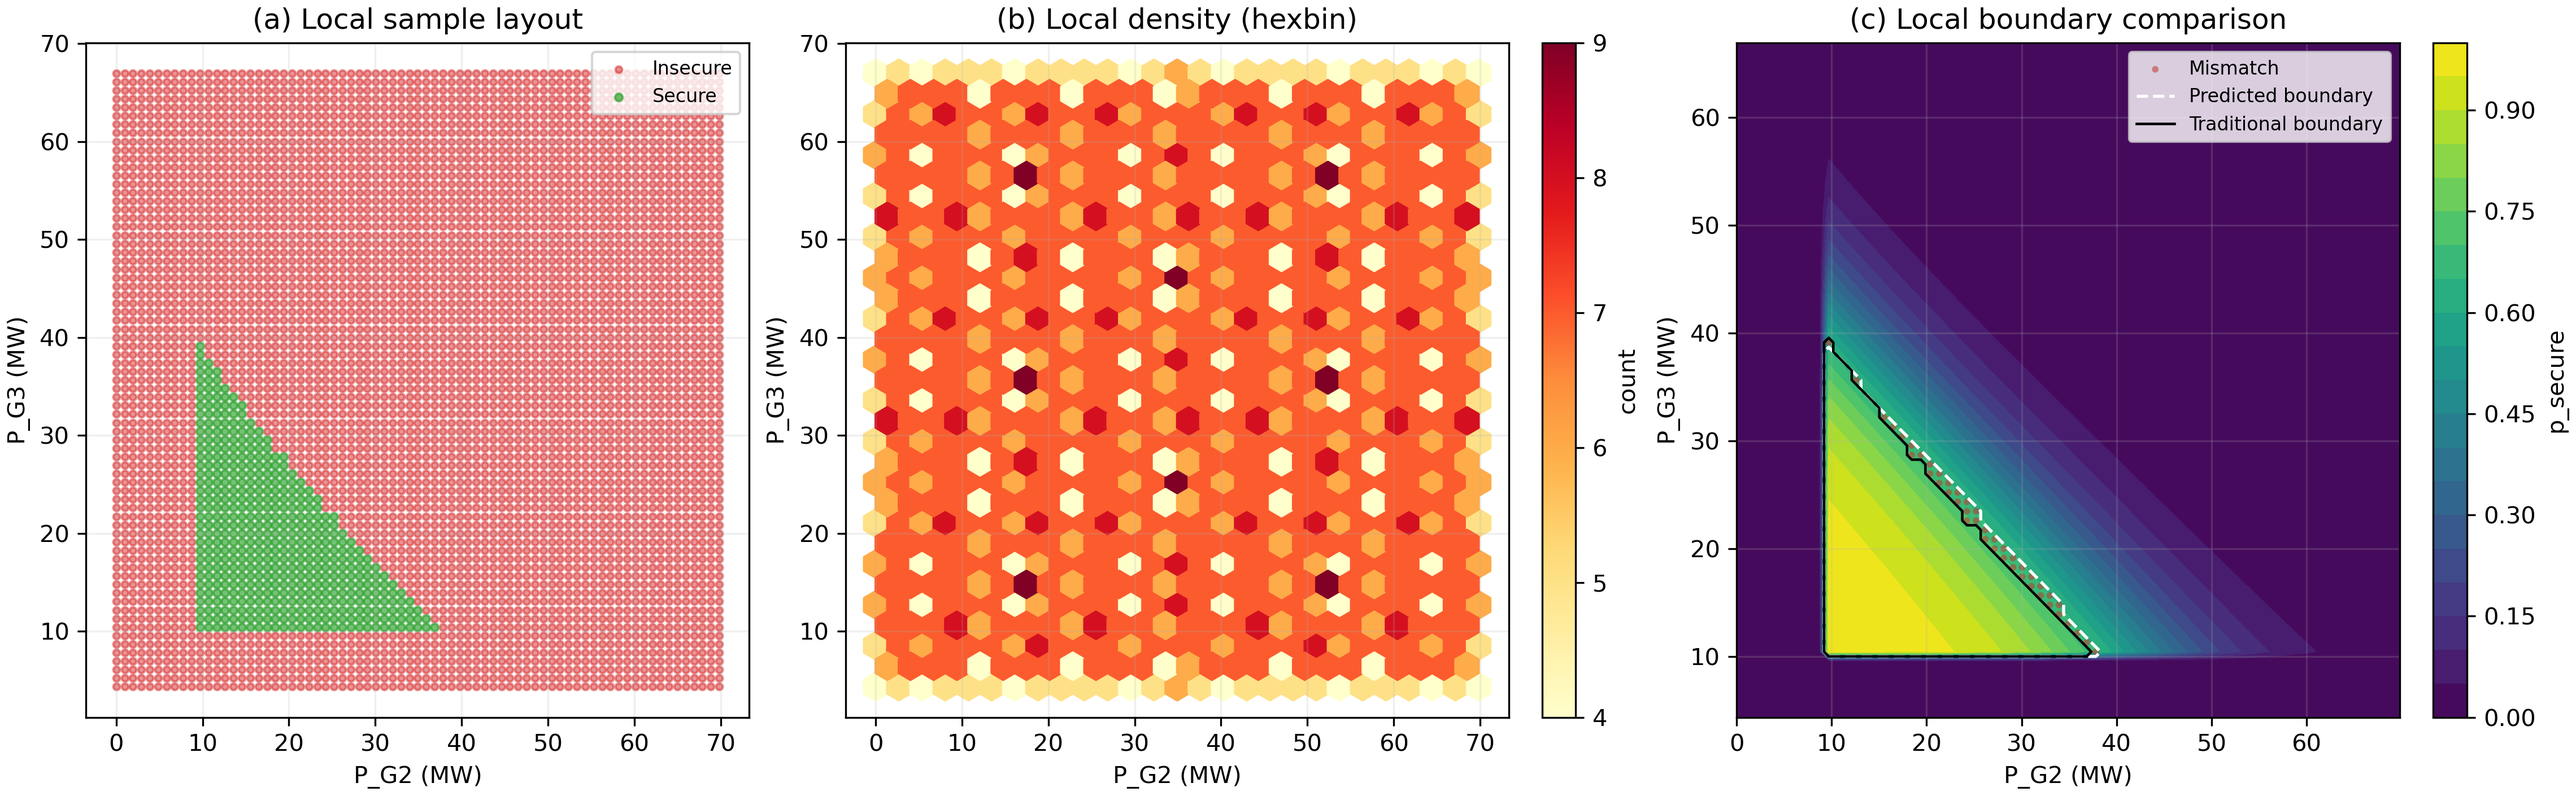
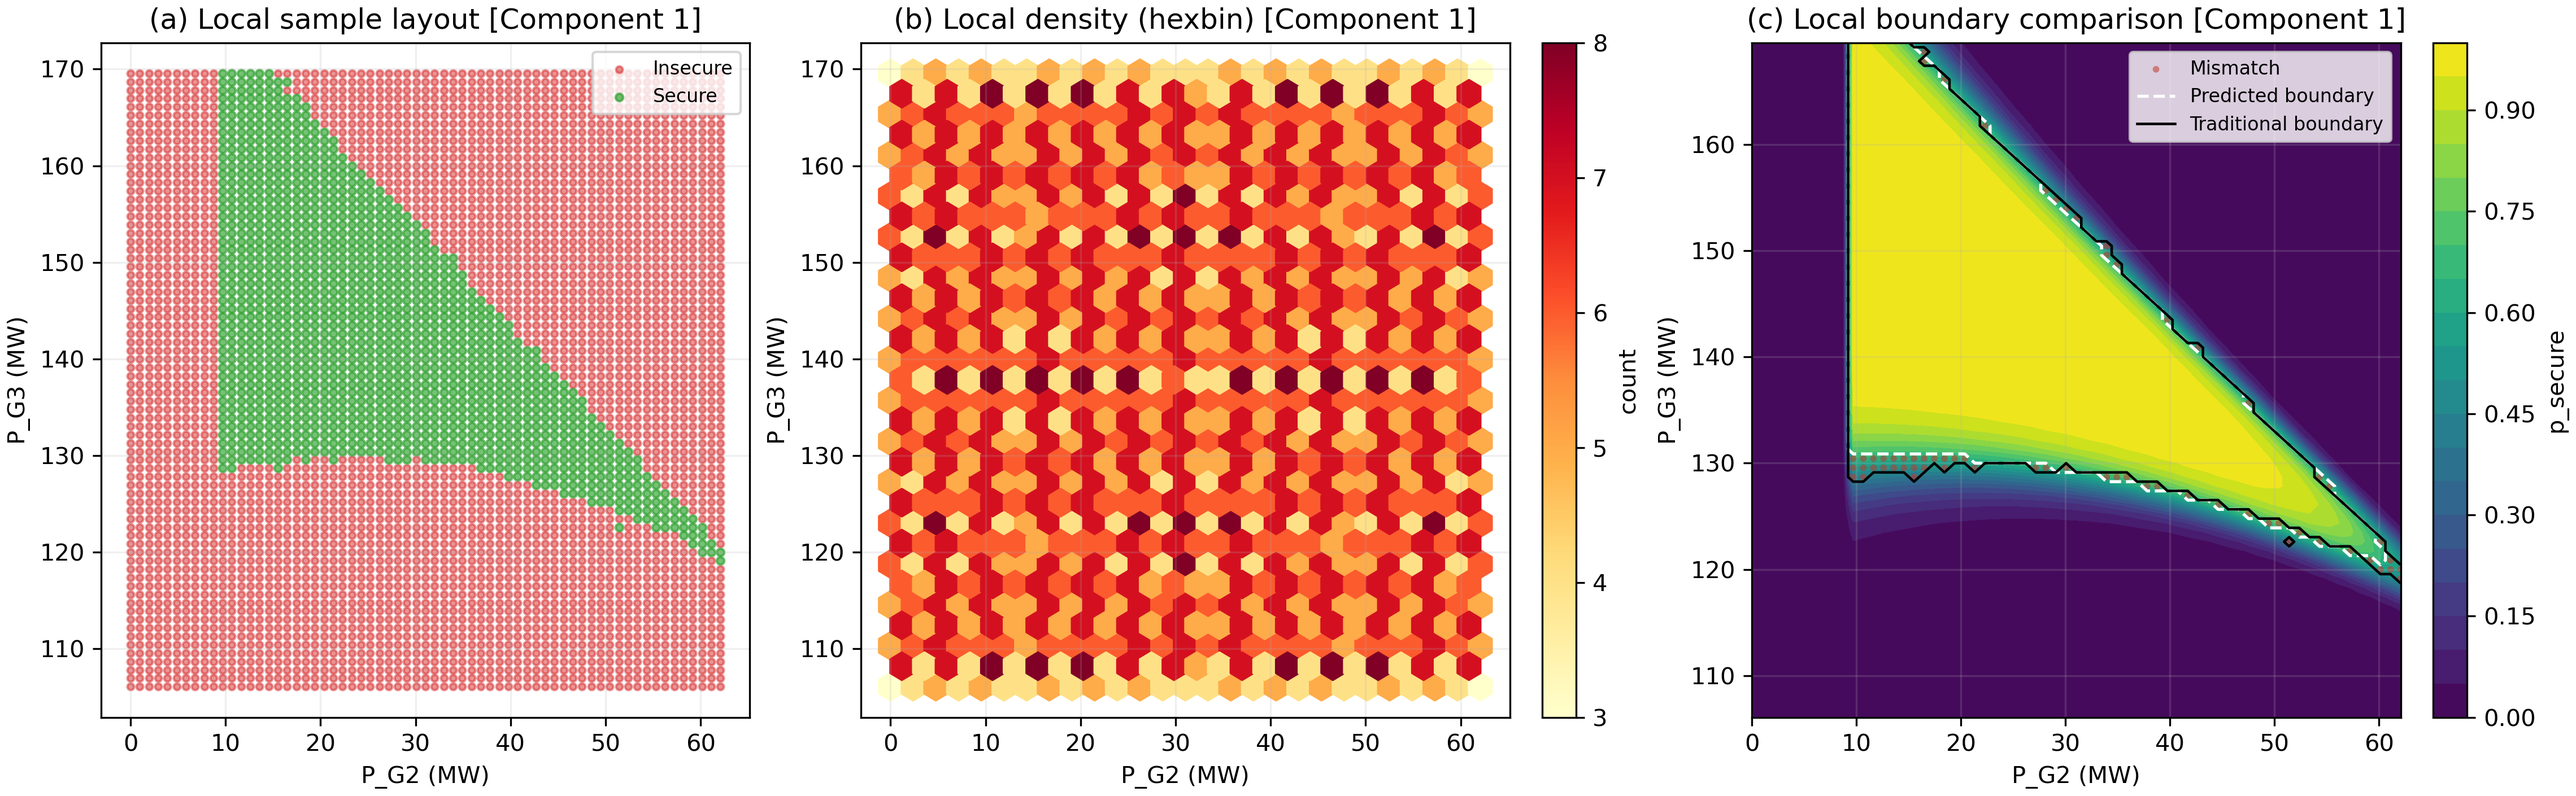
Add case9 multi-component local zoom figures
Detect secure components automatically, generate additional local boundary zoom plots for the other two regions, and refresh boundary-loop artifact metadata accordingly.

diff --git a/experiments/run_case9_boundary_loop.py b/experiments/run_case9_boundary_loop.py
@@ -26,7 +26,7 @@ import random
 import sys
 from dataclasses import asdict, dataclass
 from pathlib import Path
-from typing import Dict, Iterable, List, Sequence, Set, Tuple
+from typing import Dict, Iterable, List, Optional, Sequence, Set, Tuple
 
 import matplotlib.pyplot as plt
 import numpy as np
@@ -349,6 +349,8 @@ def _plot_local_zoom(
     probs_full: np.ndarray,
     threshold: float,
     save_path: Path,
+    center: Optional[Tuple[float, float]] = None,
+    title_suffix: str = "",
 ) -> None:
     d2 = float(ds.p2_grid[1] - ds.p2_grid[0])
     d3 = float(ds.p3_grid[1] - ds.p3_grid[0])
@@ -367,7 +369,10 @@ def _plot_local_zoom(
     pred_2d = (probs_2d > float(threshold)).astype(np.float32)
 
     bmask = np.abs(probs_2d - float(threshold)) < 0.04
-    if np.any(bmask):
+    if center is not None:
+        cx = float(center[0])
+        cy = float(center[1])
+    elif np.any(bmask):
         yy_i, xx_i = np.where(bmask)
         cx = float(np.median(p2_axis[xx_i]))
         cy = float(np.median(p3_axis[yy_i]))
@@ -396,7 +401,8 @@ def _plot_local_zoom(
     ax = axes[0]
     ax.scatter(xs[ls <= 0.5], ys[ls <= 0.5], s=8, c="#d62728", alpha=0.5, label="Insecure")
     ax.scatter(xs[ls > 0.5], ys[ls > 0.5], s=10, c="#2ca02c", alpha=0.65, label="Secure")
-    ax.set_title("(a) Local sample layout")
+    suffix = f" [{title_suffix}]" if title_suffix else ""
+    ax.set_title(f"(a) Local sample layout{suffix}")
     ax.set_xlabel("P_G2 (MW)")
     ax.set_ylabel("P_G3 (MW)")
     ax.grid(alpha=0.2)
@@ -404,7 +410,7 @@ def _plot_local_zoom(
 
     ax = axes[1]
     hb = ax.hexbin(xs, ys, gridsize=26, mincnt=1, cmap="YlOrRd")
-    ax.set_title("(b) Local density (hexbin)")
+    ax.set_title(f"(b) Local density (hexbin){suffix}")
     ax.set_xlabel("P_G2 (MW)")
     ax.set_ylabel("P_G3 (MW)")
     ax.grid(alpha=0.2)
@@ -422,7 +428,7 @@ def _plot_local_zoom(
     ax.plot([], [], color="white", linestyle="--", linewidth=1.3, label="Predicted boundary")
     ax.plot([], [], color="black", linestyle="-", linewidth=1.1, label="Traditional boundary")
     ax.legend(loc="upper right", fontsize=8)
-    ax.set_title("(c) Local boundary comparison")
+    ax.set_title(f"(c) Local boundary comparison{suffix}")
     ax.set_xlabel("P_G2 (MW)")
     ax.set_ylabel("P_G3 (MW)")
     ax.grid(alpha=0.2)
@@ -431,6 +437,60 @@ def _plot_local_zoom(
 
     fig.savefig(save_path, dpi=300)
     plt.close(fig)
+
+
+def _extract_component_centers(ds: Case9Dataset, top_k: int = 3) -> List[Tuple[float, float]]:
+    """Find centers for largest secure components on the case9 lattice."""
+    ny, nx = len(ds.p3_grid), len(ds.p2_grid)
+    labels = np.zeros((ny, nx), dtype=np.float32)
+    ix, iy = _ixiy_from_xy(ds.X_raw, ds.p2_grid, ds.p3_grid)
+    valid = (ix >= 0) & (ix < nx) & (iy >= 0) & (iy < ny)
+    labels[iy[valid], ix[valid]] = ds.y_cls[valid]
+    mask = labels > 0.5
+
+    visited = np.zeros_like(mask, dtype=bool)
+    comps: List[np.ndarray] = []
+    nbr = [(-1, 0), (1, 0), (0, -1), (0, 1)]
+
+    for r in range(ny):
+        for c in range(nx):
+            if not mask[r, c] or visited[r, c]:
+                continue
+            stack = [(r, c)]
+            visited[r, c] = True
+            coords: List[Tuple[int, int]] = []
+            while stack:
+                rr, cc = stack.pop()
+                coords.append((rr, cc))
+                for dr, dc in nbr:
+                    r2, c2 = rr + dr, cc + dc
+                    if 0 <= r2 < ny and 0 <= c2 < nx and mask[r2, c2] and (not visited[r2, c2]):
+                        visited[r2, c2] = True
+                        stack.append((r2, c2))
+            comp = np.zeros_like(mask, dtype=bool)
+            if coords:
+                rr = np.array([p[0] for p in coords], dtype=int)
+                cc = np.array([p[1] for p in coords], dtype=int)
+                comp[rr, cc] = True
+            comps.append(comp)
+
+    if not comps:
+        return []
+
+    comps = sorted(comps, key=lambda m: int(m.sum()), reverse=True)
+    centers: List[Tuple[float, float]] = []
+    for comp in comps[: max(1, int(top_k))]:
+        p = np.pad(comp.astype(np.int16), 1, mode="constant", constant_values=0)
+        n4 = p[:-2, 1:-1] + p[2:, 1:-1] + p[1:-1, :-2] + p[1:-1, 2:]
+        edge = comp & (n4 < 4)
+        pick = edge if edge.any() else comp
+        yy, xx = np.where(pick)
+        if yy.size == 0:
+            continue
+        cx = float(np.median(ds.p2_grid[xx]))
+        cy = float(np.median(ds.p3_grid[yy]))
+        centers.append((cx, cy))
+    return centers
 
 
 def main() -> None:
@@ -752,7 +812,31 @@ def main() -> None:
     security_fig = figs_dir / "case9mod_boundaryloop_security_region.png"
     zoom_fig = figs_dir / "case9mod_boundaryloop_local_zoom.png"
     _plot_security_region(ds, probs_full=probs_full, threshold=best_threshold, save_path=security_fig)
-    _plot_local_zoom(ds, probs_full=probs_full, threshold=best_threshold, save_path=zoom_fig)
+    centers = _extract_component_centers(ds, top_k=3)
+    if centers:
+        _plot_local_zoom(
+            ds,
+            probs_full=probs_full,
+            threshold=best_threshold,
+            save_path=zoom_fig,
+            center=centers[0],
+            title_suffix="Component 1",
+        )
+    else:
+        _plot_local_zoom(ds, probs_full=probs_full, threshold=best_threshold, save_path=zoom_fig)
+
+    extra_zooms: List[str] = []
+    for i, ctr in enumerate(centers[1:3], start=2):
+        zpath = figs_dir / f"case9mod_boundaryloop_local_zoom_comp{i}.png"
+        _plot_local_zoom(
+            ds,
+            probs_full=probs_full,
+            threshold=best_threshold,
+            save_path=zpath,
+            center=ctr,
+            title_suffix=f"Component {i}",
+        )
+        extra_zooms.append(str(zpath))
 
     metrics = {
         "method": "EC-PDNet + WLDG-BE",
@@ -777,6 +861,7 @@ def main() -> None:
             "probs_full": str(results_dir / "case9mod_boundaryloop_probs.npy"),
             "figure_security": str(security_fig),
             "figure_zoom": str(zoom_fig),
+            "figure_zoom_extra": extra_zooms,
         },
     }
 
